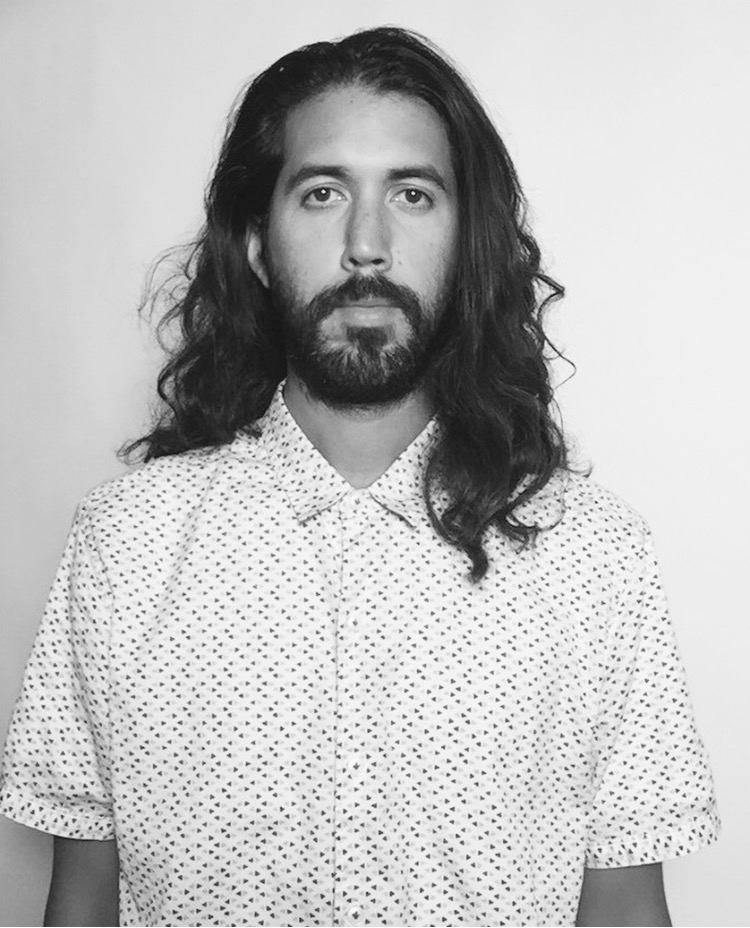
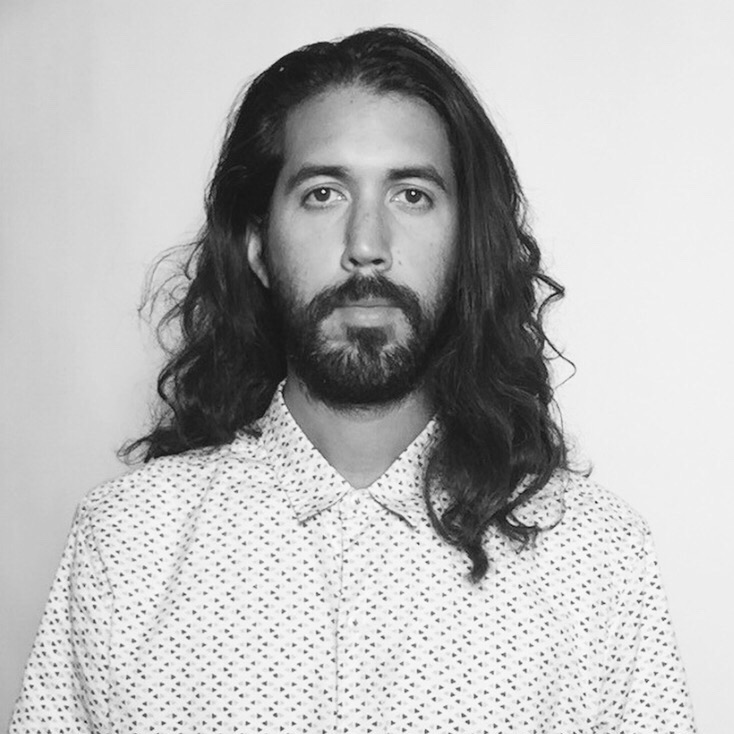
updated pictures

diff --git a/pages/team.js b/pages/team.js
@@ -340,8 +340,8 @@ export default function About() {
                 ></img>
               </div>
 
-              <h2 className="">Anisha</h2>
-              <h3 className="mb-4">Developer</h3>
+              <h2 className="">Anisha Sunkerneni</h2>
+              <h3 className="mb-4">Developer + Outreach/Content</h3>
               <p className="mb-1 w-3/5 text-center">
                 Anisha is a web developer and ex-medical student. She's passionate about design, medicine, technology and developing products that bring people together. Anisha enjoys asking questions that make people think.
               </p>
@@ -387,7 +387,7 @@ export default function About() {
               </div>
 
               <h2 className="">Eshita</h2>
-              <h3 className="mb-4">Developer + Content + Outreach</h3>
+              <h3 className="mb-4">Developer + Outreach/Content</h3>
               <p className="mb-1 w-3/5 text-center">
               Eshita is a Data Analyst at Shareworks by Morgan Stanley. 
               </p>
@@ -691,13 +691,13 @@ export default function About() {
             <div className="mt-16 flex flex-col items-center">
               <div className="w-40 h-40 m-4">
                 <img
-                  src="/profiles/nik.png"
+                  src="/profiles/nik.jpg"
                   className="flex text-center"
                   Image
                 ></img>
               </div>
 
-              <h2 className="">Nik Huebecker</h2>
+              <h2 className="">Nikolas Huebecker</h2>
               <h3 className="mb-4">Developer</h3>
               <p className="mb-1 w-3/5 text-center">
               Nikolas is an entreprenuer and engineer currently working on a stealth startup.
